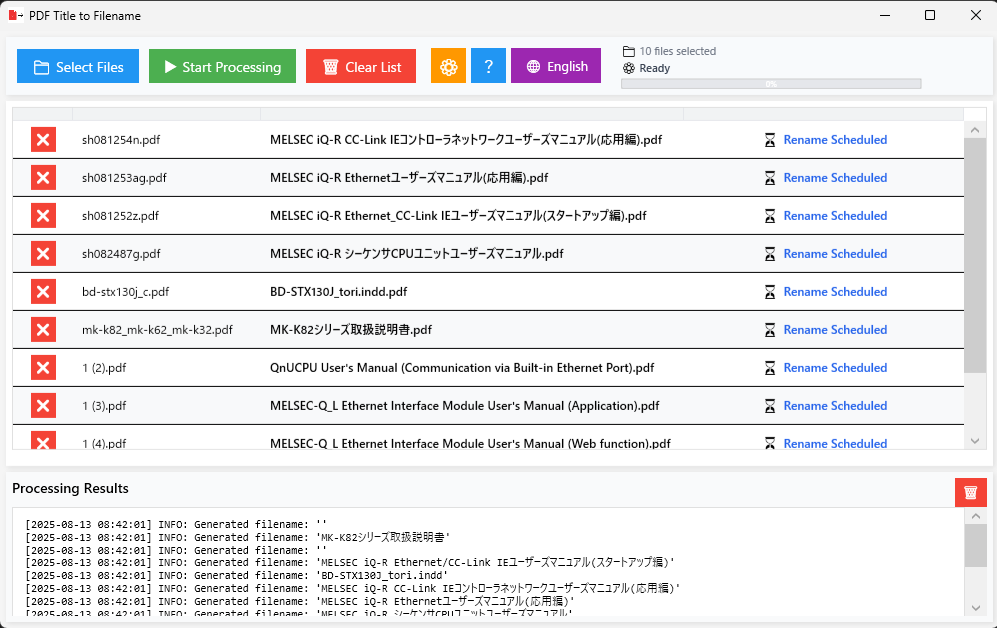
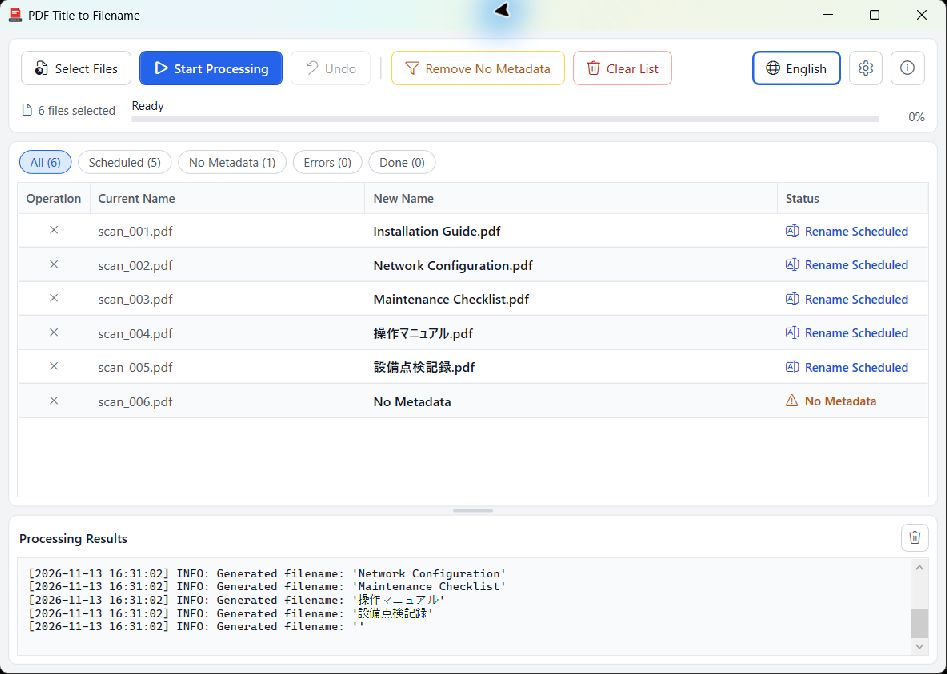
Prepare v1.1.0 release and refresh bilingual screenshots

diff --git a/PDF_Title_to_Filename/Views/MainWindow.xaml b/PDF_Title_to_Filename/Views/MainWindow.xaml
@@ -323,7 +323,7 @@
 
                     <DataGrid.Columns>
                         <DataGridTemplateColumn Header="{Binding Data.OperationHeader, Source={StaticResource Proxy}}"
-                                                Width="44" CanUserSort="False" CanUserResize="False">
+                                                Width="SizeToHeader" MinWidth="44" CanUserSort="False" CanUserResize="False">
                             <DataGridTemplateColumn.CellTemplate>
                                 <DataTemplate>
                                     <Button Style="{StaticResource RowIconButton}"

diff --git a/CHANGELOG.md b/CHANGELOG.md
@@ -6,6 +6,8 @@ All notable changes are recorded from this point onward.
 
 ## [Unreleased]
 
+## [1.1.0] - 2026-11-13
+
 ### Added
 
 - "Remove No Metadata" button that removes PDFs without usable metadata from the list in one click. Files on disk are not touched.
@@ -22,6 +24,8 @@ All notable changes are recorded from this point onward.
 - Redesigned the main window: a unified, higher-contrast color palette, flat buttons with hover/disabled states, Segoe Fluent icons instead of emoji, a readable progress percentage and a resizable log panel that scrolls to the latest entry.
 - The empty drop area can be clicked to select files, and the window highlights while dragging files over it.
 - The language button shows "日本語" / "English".
+- Updated the English and Japanese screenshots to show the redesigned interface.
+- Align local and CI executable, fixed-name ZIP and UTF-8/LF SHA-256 output under `artifacts/release/`; preserve required distribution files and require the VirusTotal API SHA-256 to match.
 
 ### Fixed
 
@@ -30,13 +34,9 @@ All notable changes are recorded from this point onward.
 - The same file can no longer be added twice with different letter case in its path.
 - The toolbar wraps and the progress bar stretches instead of being clipped in narrow windows.
 - Column headers in the file list were blank.
+- The operation column now sizes to its translated header so the English label is not clipped.
 - Switching the language no longer overwrites filename settings changed earlier in the same session.
 - The "all metadata items disabled" warning showed resource keys instead of text.
-
-### Changed
-
-- Align local and CI executable, fixed-name ZIP and UTF-8/LF SHA-256 output under `artifacts/release/`; preserve required distribution files and require the VirusTotal API SHA-256 to match.
-
 
 ## [1.0.9] - 2026-11-10
 

diff --git a/.github/release-notes.md b/.github/release-notes.md
@@ -8,9 +8,24 @@ Extract the ZIP file, then run `PDF_Title_to_Filename.exe`.
 Requirements: Windows 10 or Windows 11 (x64). The .NET 10.0.14 runtime is included.
 
 ## Changes
+### Added
+- Remove PDFs without usable metadata from the list in one click, without deleting files.
+- Filter files by status, edit new filenames directly, and use a right-click menu for common actions.
+- Confirm rename operations and undo the last rename batch.
+- Use keyboard shortcuts for file selection, renaming, preview refresh, and undo.
+- Remember the window position, size, and log panel height.
+
 ### Changed
+- Redesigned the main window with clearer controls, visible column headers, status counts, and a resizable log panel.
+- Updated the English and Japanese screenshots in the README.
 - Align local and CI executable, fixed-name distribution ZIP and SHA-256 output under `artifacts/release/`.
 - Require the VirusTotal API SHA-256 to match every published executable before reporting a completed scan.
+
+### Fixed
+- Preserve renamed-file status when settings change and preserve filename settings when switching languages.
+- Cap the complete generated filename at 240 characters and prevent duplicate file entries with differently cased paths.
+- Keep the toolbar and progress display usable in narrow windows and show translated warning messages.
+- Size the operation column to its translated header to prevent clipping in English.
 
 <!-- virustotal:start -->
 {{VIRUSTOTAL_CONTENT}}
